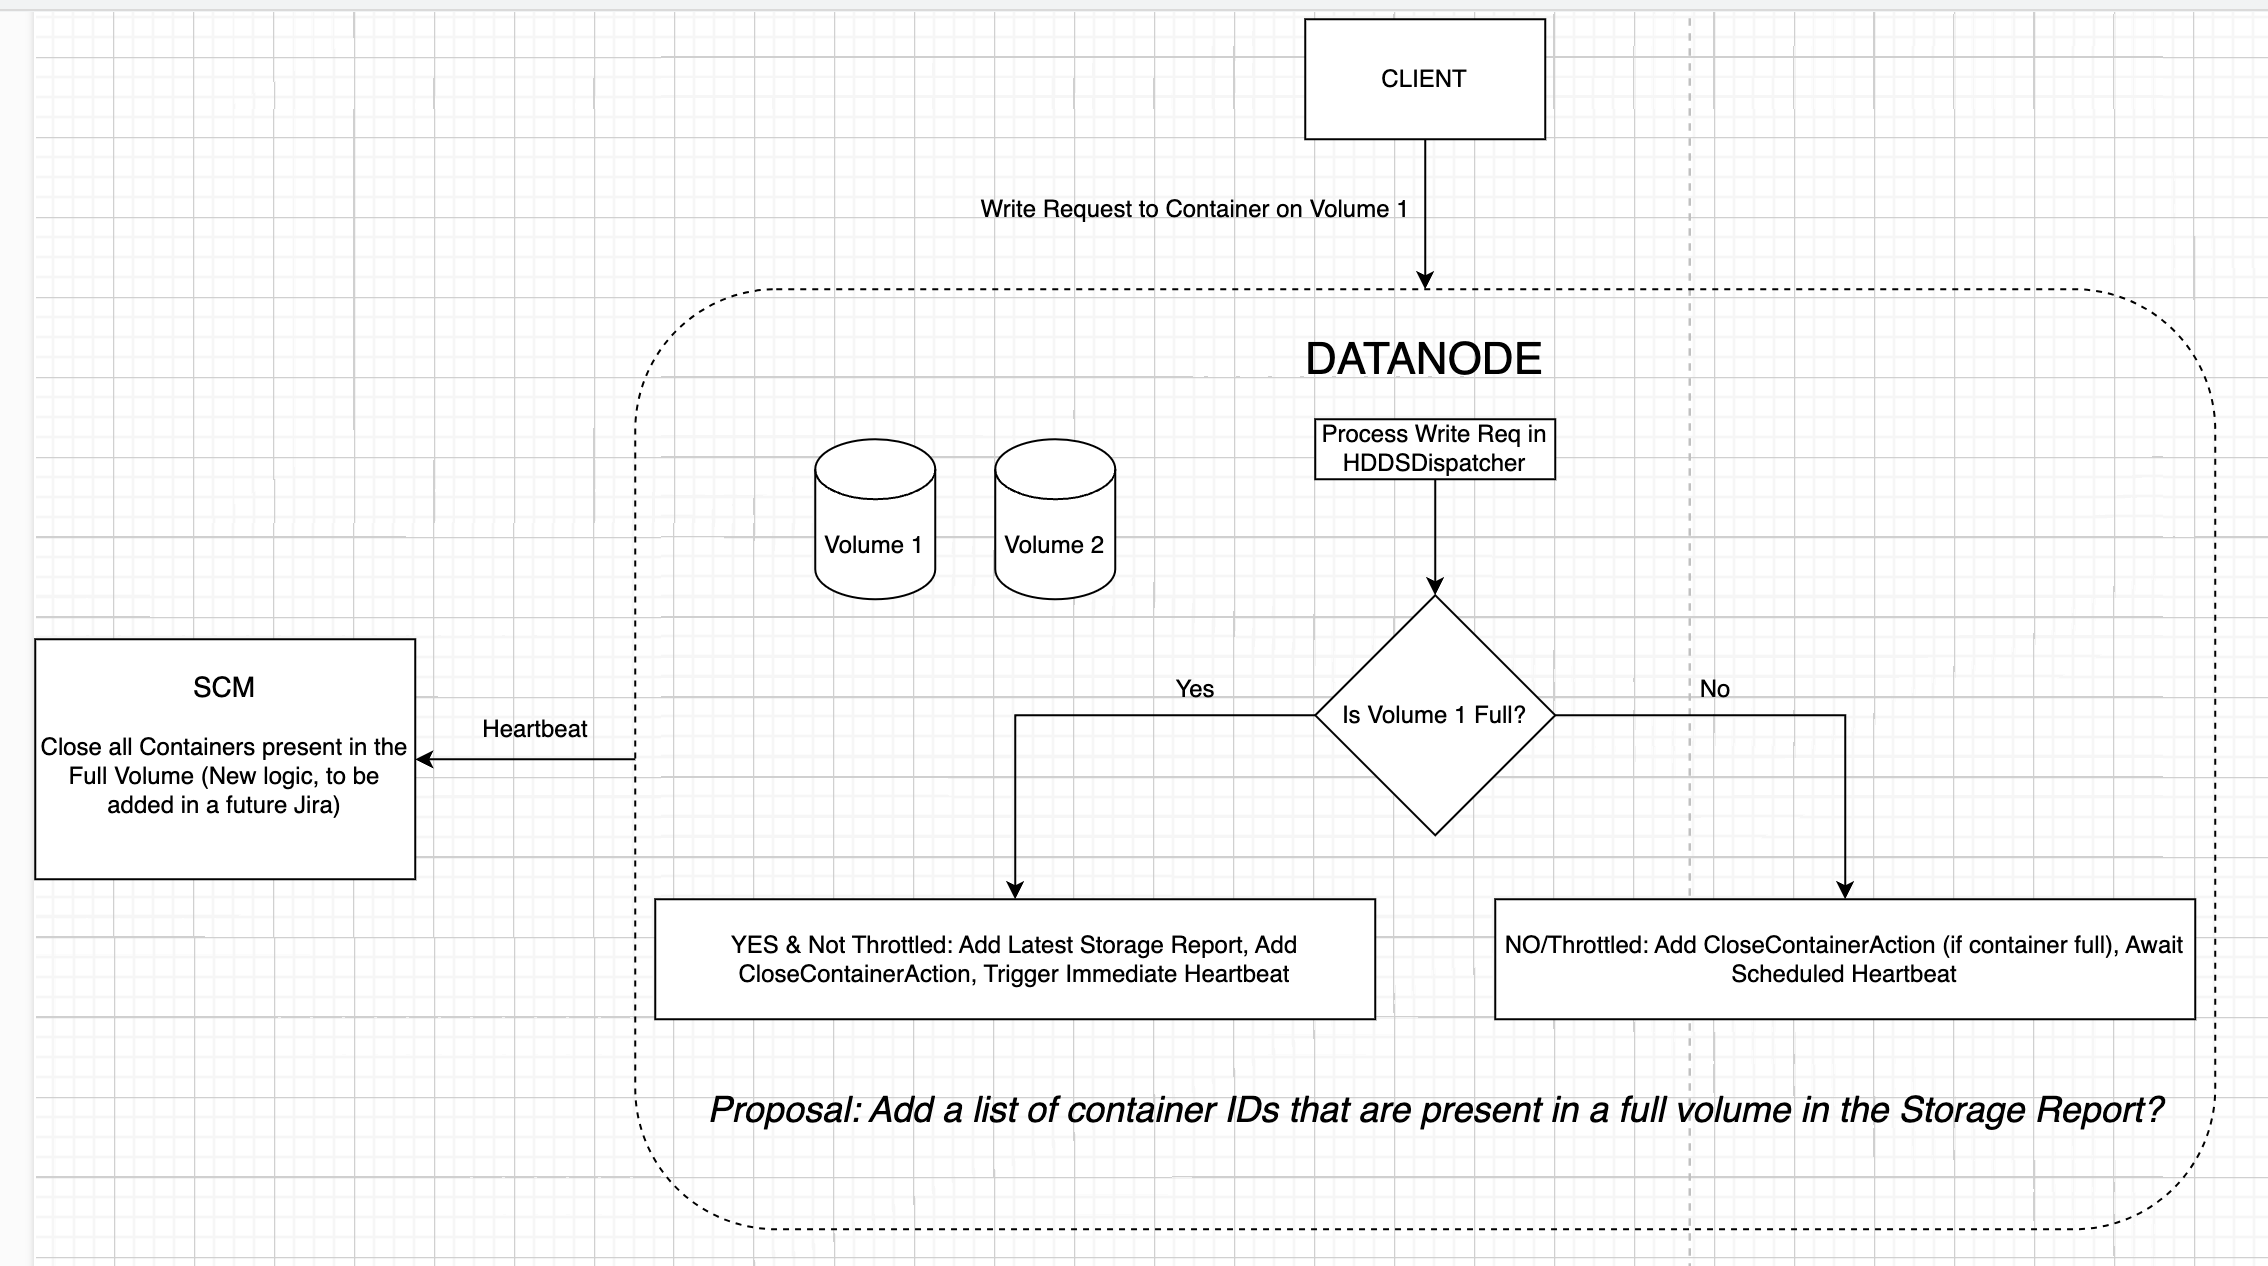
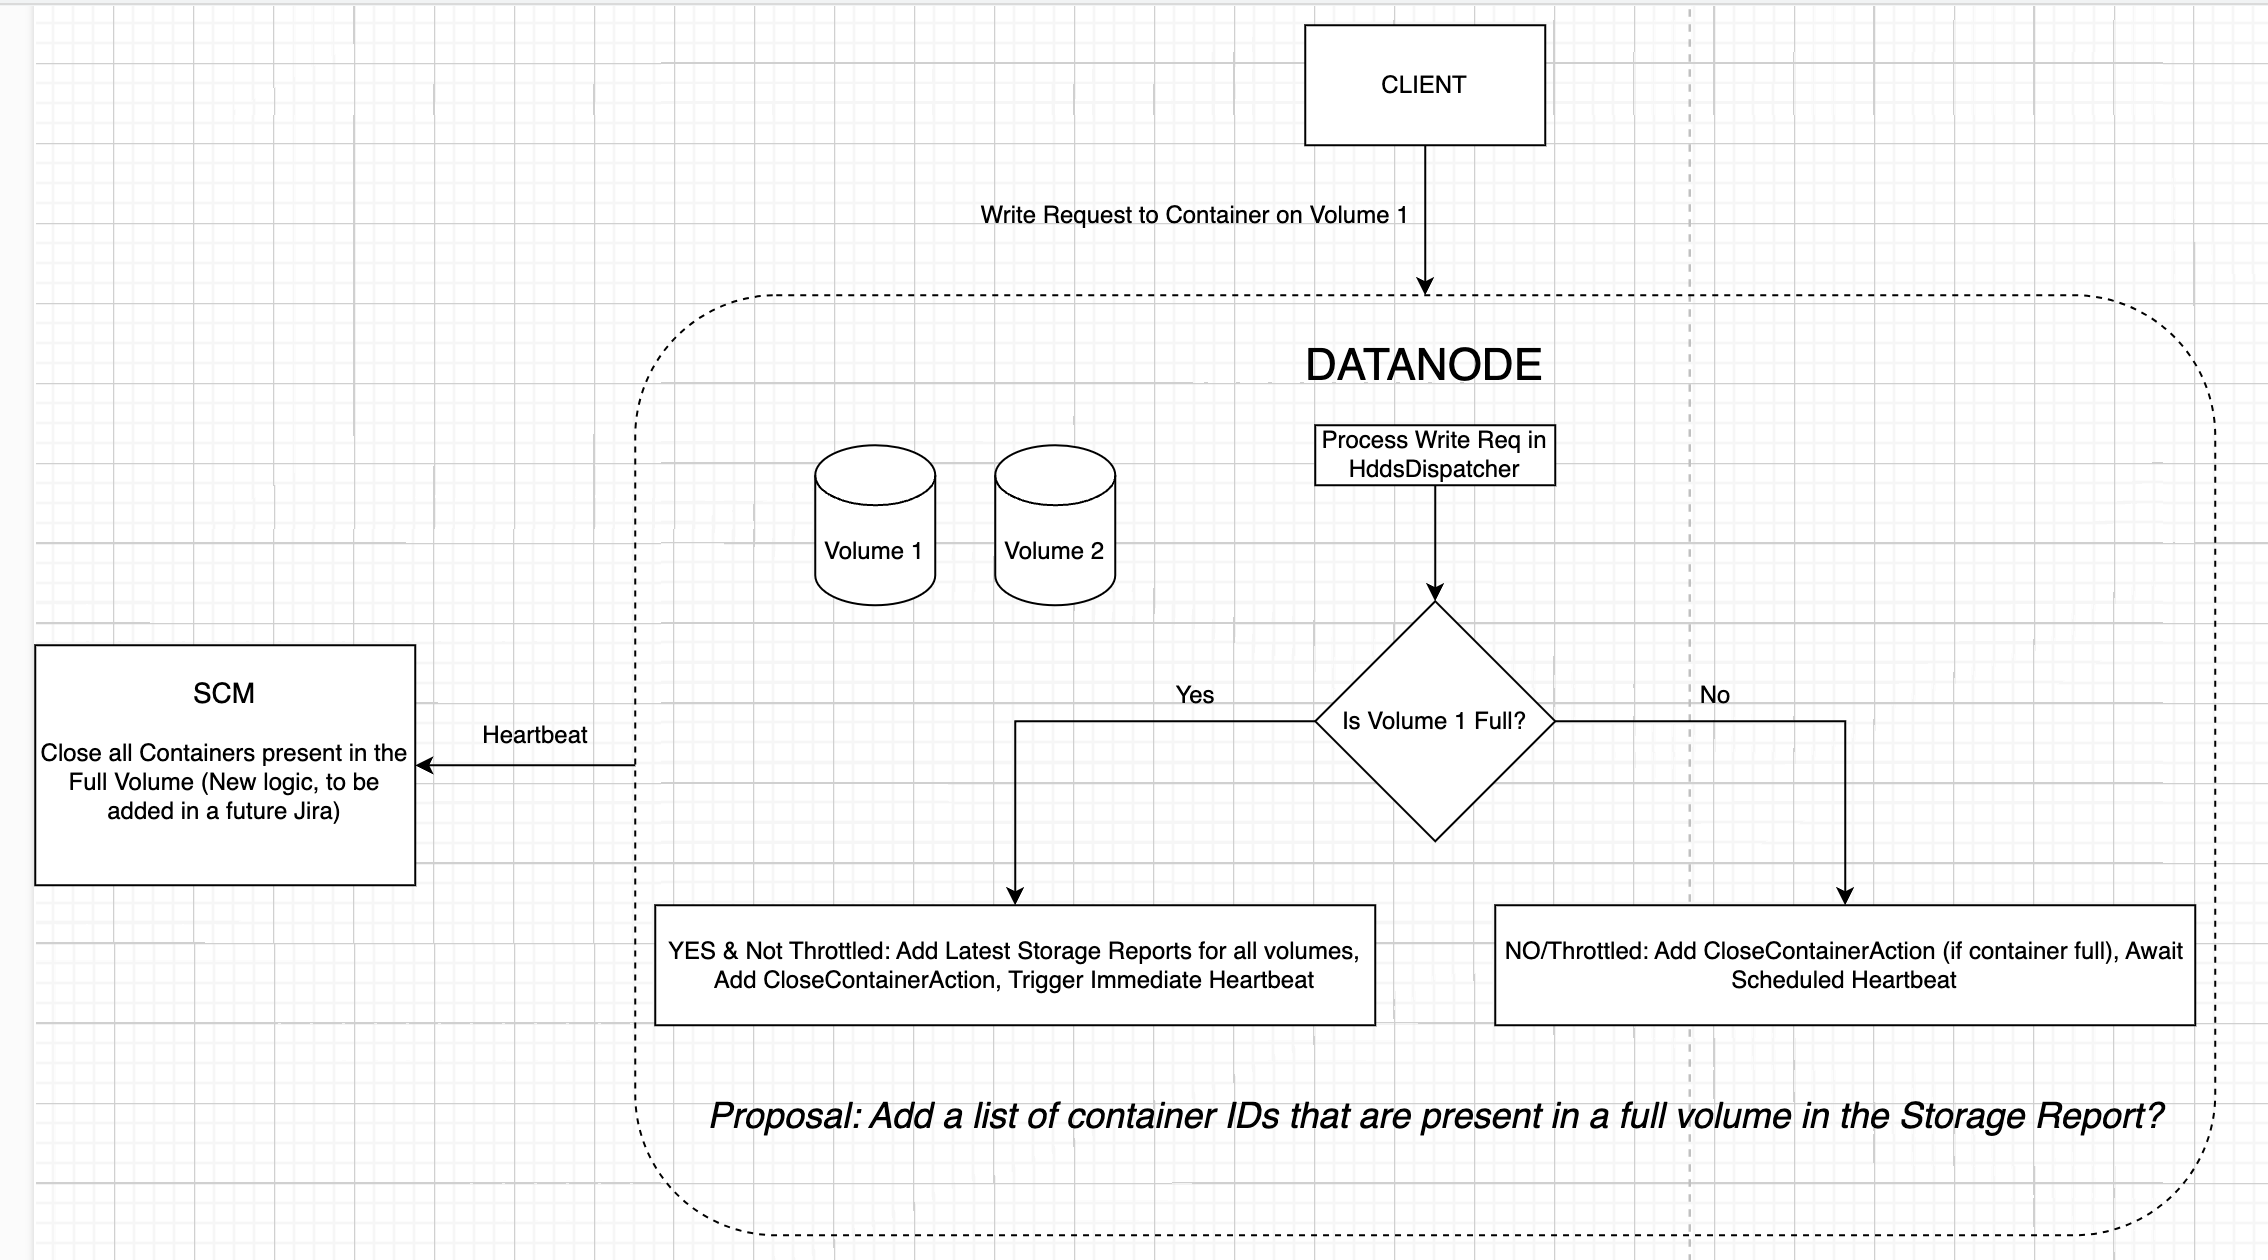
add full volume definition + throttling explanation

diff --git a/hadoop-hdds/docs/content/design/full-volume-handling.md b/hadoop-hdds/docs/content/design/full-volume-handling.md
@@ -29,6 +29,34 @@ When a Datanode volume is close to full, the SCM may not be immediately aware be
 to it every thirty seconds. This can lead to the SCM allocating multiple blocks to containers on a full DN volume, 
 causing performance issues when the write fails. The proposal will partly solve this problem.
 
+### The definition of a full volume
+A volume is considered full if the following (existing) method returns true.
+```java
+  private boolean isVolumeFull(Container container) {
+    boolean isOpen = Optional.ofNullable(container)
+        .map(cont -> cont.getContainerState() == ContainerDataProto.State.OPEN)
+        .orElse(Boolean.FALSE);
+    if (isOpen) {
+      HddsVolume volume = container.getContainerData().getVolume();
+      StorageLocationReport volumeReport = volume.getReport();
+      boolean full = volumeReport.getUsableSpace() <= 0;
+      if (full) {
+        LOG.info("Container {} volume is full: {}", container.getContainerData().getContainerID(), volumeReport);
+      }
+      return full;
+    }
+    return false;
+  }
+```
+
+It accounts for available space, committed space, min free space and reserved space:
+```java
+  private static long getUsableSpace(
+      long available, long committed, long minFreeSpace) {
+    return available - committed - minFreeSpace;
+  }
+```
+
 In the future (https://issues.apache.org/jira/browse/HDDS-12151) we plan to fail a write if it's going to exceed the min free space boundary in a volume. To prevent this from happening often, SCM needs to stop allocating blocks to containers on such volumes in the first place.
 
 ## Non Goals
@@ -49,7 +77,34 @@ This is the proposal, explained via a diagram.
 
 ![full-volume-handling.png](../../static/full-volume-handling.png)
 
+#### Throttling
 Throttling is required so the Datanode doesn't cause a heartbeat storm on detecting that some volumes are full in multiple write calls.
+The Datanode can throttle by ensuring that only one unplanned heartbeat is sent every heartbeat interval or 30 seconds,
+whichever is lower. Throttling should be enforced across multiple threads and different volumes.
+
+Here's a visualisation to explain this. The letters (A, B, C etc.) denote events and timestamp is the time at which 
+an event occurs.
+```
+Write Call 1:
+/ A, timestamp: 0/-------------/B, timestamp: 5/
+
+Write Call 2, in-parallel with 1:
+------------------------------ /C, timestamp: 5/
+
+Write Call 3, in-parallel with 1 and 2:
+---------------------------------------/D, timestamp: 7/
+
+Write Call 4:
+------------------------------------------------------------------------/E, timestamp: 35/
+
+Events:
+A: Last, regular heartbeat
+B: Volume 1 detected as full, heartbeat triggered
+C: Volume 1 again detected as full, heartbeat throttled
+D: Volume 2 detected as full, heartbeat throttled
+E: Volume 3 detected as full, heartbeat triggered (30 seconds after B) 
+```
+For code implementation, see https://github.com/apache/ozone/pull/8492.
 
 ## Benefits
 1.  SCM will not include a Datanode in a new pipeline if all the volumes on it are full. The logic to do this already exists, we just update the volume stats in the SCM faster.
